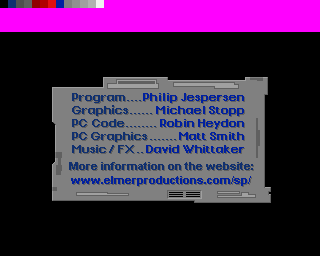
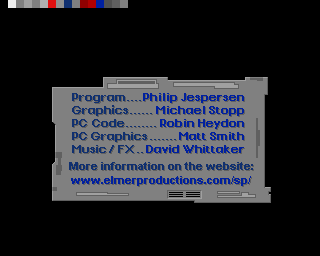
credits animation and fade done

Changed region(s): [[0.0, 0.0, 1.0, 0.125]]

diff --git a/src/supaplex.c b/src/supaplex.c
@@ -56,6 +56,7 @@ PSP_HEAP_SIZE_KB(-1024);
 #ifdef __MEGADRIVE__
 #include "genesis.h"
 #include "../../res/images.h"
+#include "../ui.h"
 #endif
 
 // title1DataBuffer -> A000:4DAC - A000:CAAC
@@ -1585,7 +1586,7 @@ int SUPAPLEX_MAIN(int argc, char *argv[])
         convertPaletteDataToPalette(gTitlePaletteData, titleDatPalette);
         fadeToPalette(titleDatPalette);
         #ifdef __MEGADRIVE__
-        // JOY_waitPressBtn(); // @TODO pladaria: uncomment
+        JOY_waitPressBtn(); // @TODO pladaria: uncomment
         PAL_fadeOut(0, 15, 12, FALSE);
         #endif
     }
@@ -2305,21 +2306,23 @@ void openCreditsBlock() // proc near      ; CODE XREF: start+2E9p
     u16 y1 = 32;
     u16 y2 = 98;
 
-    Sprite *topLeft = SPR_addSprite(&sprTitleEdge, x1, y1, TILE_ATTR(PAL1, FALSE, FALSE, FALSE));
-    SPR_setVRAMTileIndex(topLeft, tileIndex);
+    Sprite *creditsBlockEdgeTopLeft = SPR_addSprite(&sprTitleEdge, x1, y1, TILE_ATTR(PAL1, FALSE, FALSE, FALSE));
+    SPR_setVRAMTileIndex(creditsBlockEdgeTopLeft, tileIndex);
 
-    Sprite *topRight = SPR_addSprite(&sprTitleEdge, x2, y1, TILE_ATTR(PAL1, FALSE, FALSE, TRUE));
-    SPR_setAutoTileUpload(topRight, FALSE);
-    SPR_setVRAMTileIndex(topRight, tileIndex);
+    Sprite *creditsBlockEdgeTopRight = SPR_addSprite(&sprTitleEdge, x2, y1, TILE_ATTR(PAL1, FALSE, FALSE, TRUE));
+    SPR_setAutoTileUpload(creditsBlockEdgeTopRight, FALSE);
+    SPR_setVRAMTileIndex(creditsBlockEdgeTopRight, tileIndex);
 
-    Sprite *bottomLeft = SPR_addSprite(&sprTitleEdge, x1, y2, TILE_ATTR(PAL1, FALSE, TRUE, FALSE));
-    SPR_setAutoTileUpload(bottomLeft, FALSE);
-    SPR_setVRAMTileIndex(bottomLeft, tileIndex);
+    Sprite *creditsBlockEdgeBottomLeft = SPR_addSprite(&sprTitleEdge, x1, y2, TILE_ATTR(PAL1, FALSE, TRUE, FALSE));
+    SPR_setAutoTileUpload(creditsBlockEdgeBottomLeft, FALSE);
+    SPR_setVRAMTileIndex(creditsBlockEdgeBottomLeft, tileIndex);
 
-    Sprite *bottomRight = SPR_addSprite(&sprTitleEdge, x2, y2, TILE_ATTR(PAL1, FALSE, TRUE, TRUE));
-    SPR_setAutoTileUpload(bottomRight, FALSE);
-    SPR_setVRAMTileIndex(bottomRight, tileIndex);
+    Sprite *creditsBlockEdgeBottomRight = SPR_addSprite(&sprTitleEdge, x2, y2, TILE_ATTR(PAL1, FALSE, TRUE, TRUE));
+    SPR_setAutoTileUpload(creditsBlockEdgeBottomRight, FALSE);
+    SPR_setVRAMTileIndex(creditsBlockEdgeBottomRight, tileIndex);
 
+    PAL_setPalette(PAL0, imgTitle1.palette->data, CPU);
+    PAL_setPalette(PAL2, imgTitle1.palette->data, CPU);
     PAL_setPalette(PAL1, sprTitleEdge.palette->data, CPU);
     videoLoop();
 
@@ -2329,16 +2332,13 @@ void openCreditsBlock() // proc near      ; CODE XREF: start+2E9p
     {
         x1 -= 2;
         x2 += 2;
-        SPR_setPosition(topLeft, x1, y1);
-        SPR_setPosition(topRight, x2, y1);
-        SPR_setPosition(bottomLeft, x1, y2);
-        SPR_setPosition(bottomRight, x2, y2);
+        SPR_setPosition(creditsBlockEdgeTopLeft, x1, y1);
+        SPR_setPosition(creditsBlockEdgeTopRight, x2, y1);
+        SPR_setPosition(creditsBlockEdgeBottomLeft, x1, y2);
+        SPR_setPosition(creditsBlockEdgeBottomRight, x2, y2);
         videoLoop();
     }
-    KLog("loaded");
-    KLog_U1("SPR_getUsedVDPSprite: ", SPR_getUsedVDPSprite());
-    KLog_U1("MEM_getLargestFreeBlock: ", MEM_getLargestFreeBlock());
-    KLog_U1("SPR_getNumActiveSprite: ", SPR_getNumActiveSprite());
+    PAL_fadeToPalette(PAL2, imgTitle2.palette->data, 16, FALSE);
 #else
     static const int kEdgeWidth = 13;
     static const int kEdgeHeight = 148;
@@ -2433,9 +2433,12 @@ void loadScreen2() // proc near       ; CODE XREF: start:loc_46F00p
     readAndRenderTitle1Dat();
 
 //loc_4792E:              //; CODE XREF: loadScreen2+76j
+#ifndef __MEGADRIVE__
     ColorPalette title1DatPalette;
+    KLog("convertPaletteDataToPalette(title1DatPalette);");
     convertPaletteDataToPalette(gTitle1PaletteData, title1DatPalette);
     setPalette(title1DatPalette);
+#endif
     videoLoop();
 
     readTitle2Dat();

diff --git a/megadrive/src/graphics.c b/megadrive/src/graphics.c
@@ -2,6 +2,7 @@
 #include "supaplex/graphics.h"
 #include "supaplex/system.h"
 #include "../res/images.h"
+#include "ui.h"
 
 #define kPaleteDataSize (kNumberOfColors * 4)
 #define kNumberOfPalettes 4
@@ -86,7 +87,7 @@ void readAndRenderTitle1Dat(void)
 void readTitle2Dat(void)
 {
     u16 tileIndex = TILE_USER_INDEX + imgTitle1.tileset->numTile;
-    VDP_drawImageEx(BG_B, &imgTitle2, TILE_ATTR_FULL(PAL0, FALSE, FALSE, FALSE, tileIndex), 0, 0, FALSE, FALSE);
+    VDP_drawImageEx(BG_B, &imgTitle2, TILE_ATTR_FULL(PAL2, FALSE, FALSE, FALSE, tileIndex), 0, 0, FALSE, FALSE);
 }
 
 void readGfxDat(void)
